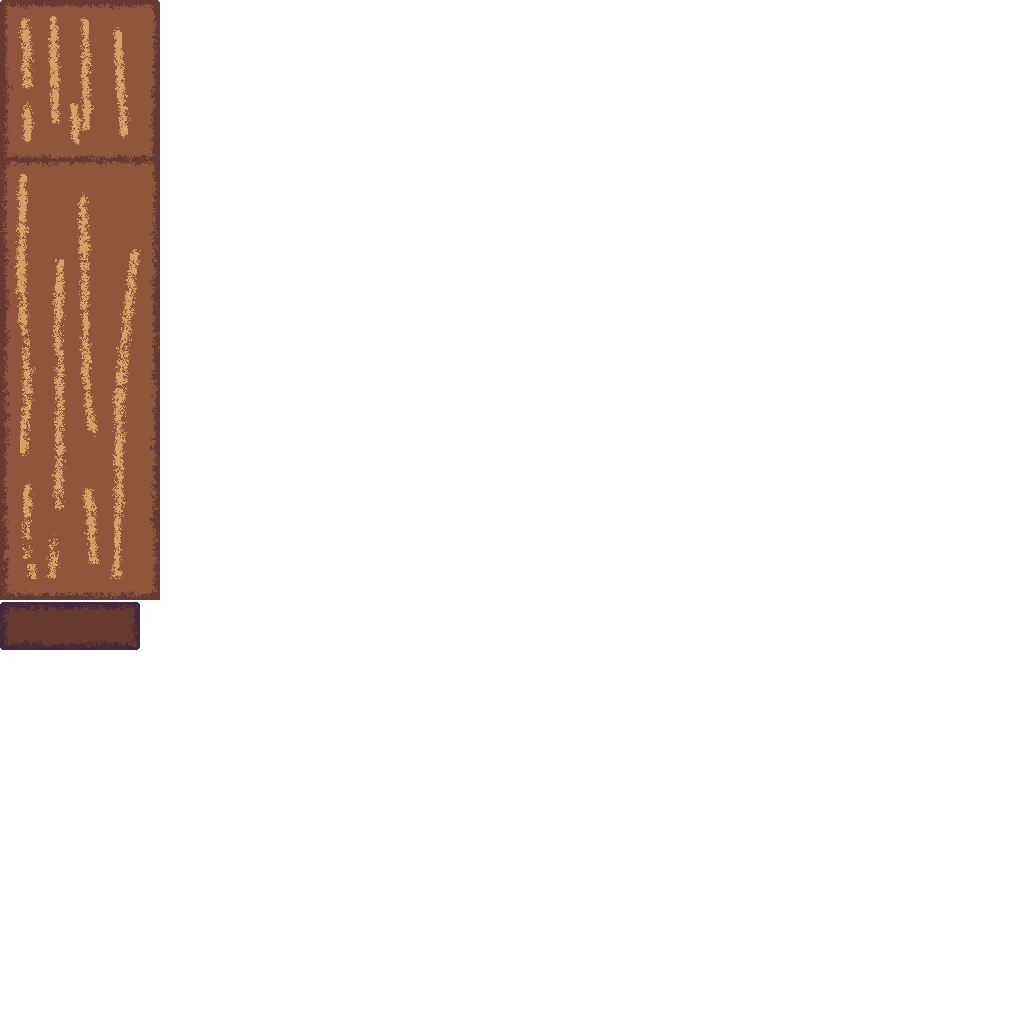
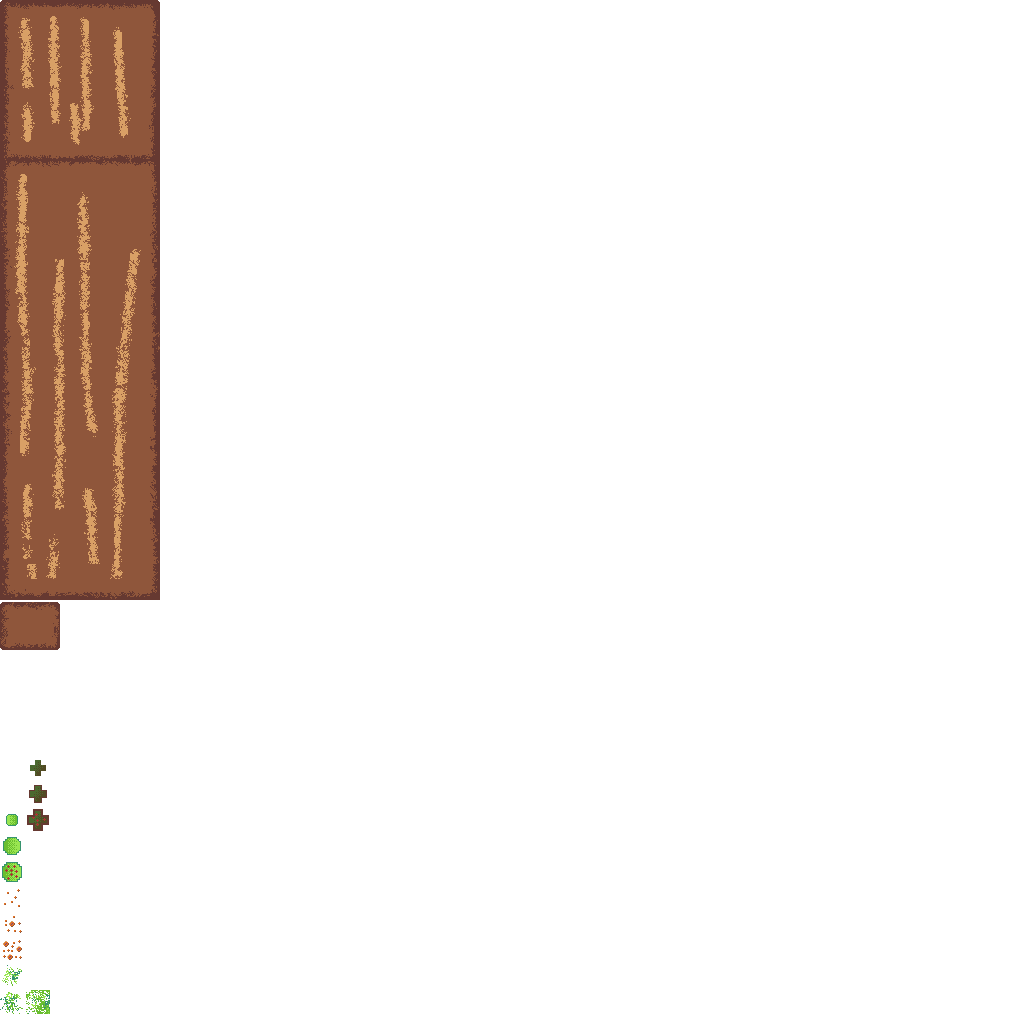
feat/assets: add assets for the 4 plant species

Changed region(s): [[0.0, 0.5625, 0.1562, 0.6562], [0.0, 0.75, 0.0625, 0.875], [0.0, 0.9062, 0.0625, 1.0]]

diff --git a/assets/process_json.py b/assets/process_json.py
@@ -24,6 +24,11 @@ definitions = {
     "plant_deco": [
         "plant_deco"+str(i) for i in range(0, 3)
     ],
+
+    "tree": [ "tree" + str(i) for i in range(0, 3) ],
+    "fungus": [ "fungus" + str(i) for i in range(0, 3) ],
+    "bush": [ "bush" + str(i) for i in range(0, 3) ],
+    "grass": [ "grass" + str(i) for i in range(0, 3) ],
 }
 frames = data["frames"]
 processed_frames = {}
